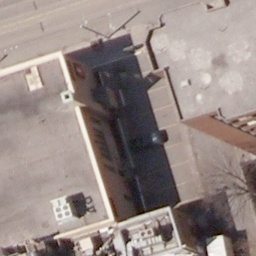
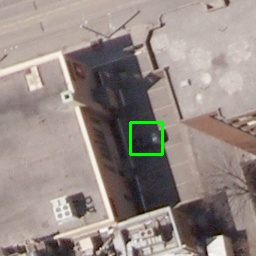
its working

Changed region(s): [[0.5, 0.4688, 0.6562, 0.625]]

diff --git a/view_predictions.py b/view_predictions.py
@@ -14,9 +14,9 @@ for image in real_images:
     img = cv2.imread(os.path.sep.join([real_images_path, image]))
     with open(os.path.sep.join([predictions_path, text_name]), "r") as ifile:
         for line in ifile:
-            # 4 0.53558475 1005 824 1186 1000
+            # <classname>-0 <confidence>-1 <ymin>-2 <xmin>-3 <ymax>-4 <xmax>-5
             annotations = line.split()
-            top_left = (int(annotations[2]), int(annotations[3]))
-            bottom_right = (int(annotations[4]), int(annotations[5]))
+            top_left = (int(annotations[3]), int(annotations[4]))
+            bottom_right = (int(annotations[5]), int(annotations[2]))
             img = cv2.rectangle(img, top_left, bottom_right, (0,255,0), 2)
     cv2.imwrite(os.path.sep.join([predictions_path, image]), img)
